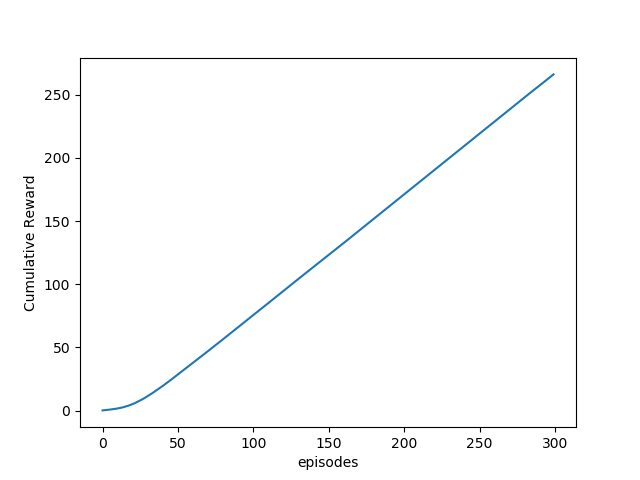
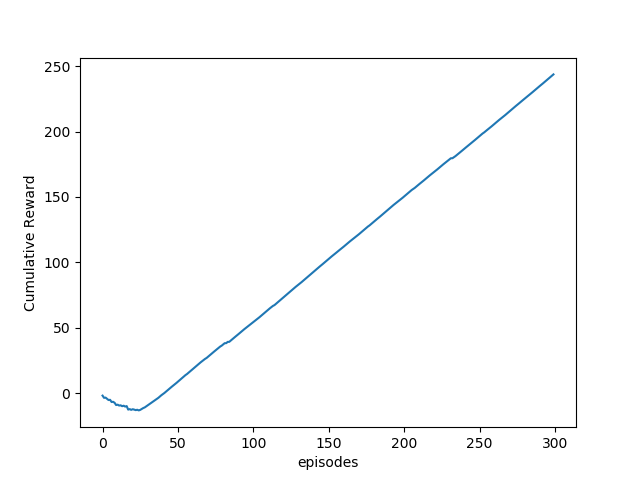
updates

diff --git a/env/maze2D.py b/env/maze2D.py
@@ -321,6 +321,191 @@ class MazeEnvironmentWindy(BaseEnvironment):
 
 
 
+
+class MazeEnvironmentLava(BaseEnvironment):
+    """Implements the environment for an RLGlue environment
+
+    Note:
+        env_init, env_start, env_step, env_cleanup, and env_message are required
+        methods.
+    """
+    def random_init(self):
+        while True:
+            s = [random.randint(0,self.maze_dim[0]-1),random.randint(0,self.maze_dim[1]-1)]
+            if not self.is_obstacle(s[0],s[1]):    
+                self.start_state = s
+                break
+        self.current_state = [None for _ in range(len(self.maze_dim))]
+        
+
+    def env_init(self,env_info):
+
+        self.maze_dim = env_info["shape"]
+        self.start_state = env_info["start"]
+        self.end_state = env_info["end"]
+        self.current_state = [None for _ in range(len(self.maze_dim))]
+        self.obstacles = env_info["obstacles"]
+        self.wind = env_info["wind"] #upward ^ +1 
+        self.lava = env_info["lava"] #reward -10  
+        self.reward_obs_term = [0.0, None, False]
+
+    def describe(self):
+        print('Maze - volume = {}'.format(self.maze_dim))
+        print('Maze - Wall   = {}'.format(self.obstacles))
+        print('Maze - Start  = {}'.format(self.start_state))
+        print('Maze - End    = {}'.format(self.end_state))
+        print('Maze - Wind   = {}'.format(self.wind))
+        print('Maze - Lava   = {}'.format(self.lava))
+
+    
+    def plot(self): 
+        Lx, Ly = self.maze_dim[0],self.maze_dim[1] 
+        print('-'*((2*Lx)+3))
+        for x in range(Lx):
+            s = '|'
+            for y in range(Ly):
+                if self.is_obstacle(x,y):
+                    s+=' x'
+                elif self.start_state==[x,y]:
+                    s+=' @'
+                elif [x,y] in self.end_state:
+                    s+=' $'
+                elif [x,y] in self.wind:
+                    s+=' ^'
+                elif [x,y] in self.lava:
+                    s+=' +'    
+                else:
+                    s+=' o'
+            print(s+' |')
+        print('-'*((2*Lx)+3))
+
+    def env_start(self):
+        """The first method called when the experiment starts, called before the
+        agent starts.
+
+        Returns:
+            The first state observation from the environment.
+        """
+        self.current_state = self.start_state
+        self.reward_obs_term[1] = self.get_observation(self.current_state)
+
+        return self.reward_obs_term[1]
+
+    # check if current state is within the gridworld and return bool
+    def out_of_bounds(self, row, col):
+        if row < 0 or row > self.maze_dim[0]-1 or col < 0 or col > self.maze_dim[1]-1:
+            return True
+        else:
+            return False
+
+    # check if there is an obstacle at (row, col)
+    def is_obstacle(self, row, col):
+        if [row, col] in self.obstacles:
+            return True
+        else:
+            return False
+
+    # check if there is an wind region at (row, col)
+    def is_windy(self, row, col):
+        if [row, col] in self.wind:
+            return True
+        else:
+            return False
+
+    def is_lava(self, row, col):
+        if [row, col] in self.lava:
+            return True
+        else:
+            return False
+
+
+    def get_observation(self, state):
+        return state[0] * self.maze_dim[1] + state[1]
+
+    def env_step(self, action):
+        """A step taken by the environment.
+
+        Args:
+            action: The action taken by the agent
+
+        Returns:
+            (float, state, Boolean): a tuple of the reward, state observation,
+                and boolean indicating if it's terminal.
+        """
+
+        reward = 0.0
+        is_terminal = False
+
+        row = self.current_state[0]
+        col = self.current_state[1]
+
+        # update current_state with the action (also check validity of action)
+        if action == 0: # up
+            if not self.is_windy(row,col):
+                if not (self.out_of_bounds(row-1, col) or self.is_obstacle(row-1, col)):
+                    self.current_state = [row-1, col]
+            else:
+                if not (self.out_of_bounds(row-2, col) or self.is_obstacle(row-2, col)):
+                    self.current_state = [row-2, col]
+
+        elif action == 1: # right
+            if not self.is_windy(row,col):
+                if not (self.out_of_bounds(row, col+1) or self.is_obstacle(row, col+1)):
+                    self.current_state = [row, col+1]
+            else:
+                if not (self.out_of_bounds(row-1, col+1) or self.is_obstacle(row-1, col+1)):
+                    self.current_state = [row-1, col+1]
+            
+        elif action == 2: # down
+            if not self.is_windy(row,col):
+                if not (self.out_of_bounds(row+1, col) or self.is_obstacle(row+1, col)):
+                    self.current_state = [row+1, col]
+            else:
+                if not (self.out_of_bounds(row, col) or self.is_obstacle(row, col)):
+                    self.current_state = [row, col]
+
+        elif action == 3: # left
+            if not self.is_windy(row,col):
+                if not (self.out_of_bounds(row, col-1) or self.is_obstacle(row, col-1)):
+                    self.current_state = [row, col-1]
+            else:
+                if not (self.out_of_bounds(row-1, col-1) or self.is_obstacle(row-1, col-1)):
+                    self.current_state = [row-1, col-1]
+
+        if self.current_state in self.lava:
+            reward = -10
+            self.current_state = self.start_state  #if fall in lava restart from start_state
+
+        if self.current_state in self.end_state: # terminate if goal is reached
+            reward = 1.0
+            is_terminal = True
+
+        self.reward_obs_term = [reward, self.get_observation(self.current_state), is_terminal]
+
+        return self.reward_obs_term
+
+    def env_cleanup(self):
+        """Cleanup done after the environment ends"""
+        current_state = None
+
+    def env_message(self, message):
+        """A message asking the environment for information
+
+        Args:
+            message (string): the message passed to the environment
+
+        Returns:
+            string: the response (or answer) to the message
+        """
+        if message == "what is the current reward?":
+            return "{}".format(self.reward_obs_term[0])
+
+        # else
+        return "I don't know how to respond to your message"
+
+
+
+
 if __name__=='__main__':
     env_info = { 
         "shape": [6,6],
@@ -344,3 +529,18 @@ if __name__=='__main__':
     env.env_init(env_info=env_info)
     env.describe()
     env.plot()
+
+    env_info = { 
+    "shape": [6,6],
+    "start": [0,5],
+    "end"  : [[5,5]],
+    "obstacles":[[1,1],[1,2],[1,3]],
+    "wind":[[2,3],[3,3],[4,3],[5,3]],
+    "lava":[[4,5],[3,5]]}
+
+    env = MazeEnvironmentLava()
+    env.env_init(env_info=env_info)
+    env.describe()
+    env.plot()
+
+    

diff --git a/TD_methods/SARSA.py b/TD_methods/SARSA.py
@@ -9,6 +9,7 @@ from RLglue.agent import BaseAgent
 from env.maze2D import MazeEnvironment
 import numpy as np
 from tqdm import tqdm
+import matplotlib.pyplot as plt
 
 class SARSAagent(BaseAgent):
     def agent_init(self, agent_info):
@@ -82,9 +83,11 @@ if __name__=='__main__':
   
     env_info = { 
         "shape": [6,6],
-        "start": [0,5],
-        "end"  : [[5,4],[5,5]],
-        "obstacles":[[1,1],[1,2],[1,3],[1,4],[1,5]]}
+        "start": [0,0],
+        "end"  : [[0,5]],
+        "wind":[[0,2],[1,2],[2,2],[3,2],[4,2],[5,2]],
+        "obstacles": [],
+        "lava":[[3,3],[3,4]]}
 
     agent_info = {
         "num_states"  : np.prod(env_info["shape"]),   
@@ -98,26 +101,62 @@ if __name__=='__main__':
         agent_class = SARSAagent
         )
 
+
+    EPISODES  = 300
+    REPLICAS  = 10
+    MAX_STEPS = 5000
+
+    tot_steps = np.zeros((REPLICAS,EPISODES))
+    cum_reward_all = np.zeros((REPLICAS,EPISODES))
+    
     rl_glue.rl_init(agent_info, env_info)
     rl_glue.environment.plot()
     rl_glue.environment.describe()
     rl_glue.agent.describe()
-
-    EPISODES = 1000
-    MAX_STEPS = 1000
-    tot_steps = []
-    for n in tqdm(range(EPISODES)): 
-        n_step = 0
-        rl_glue.environment.env_start()
-        rl_glue.rl_start()
-        is_terminal = False               
-        converged = False
-        update = False
-        while not is_terminal:
-            n_step +=1
-            reward, _, action, is_terminal = rl_glue.rl_step()
-            if n_step > MAX_STEPS:
-                update=False
-                break
-        tot_steps.append(n_step)
+    
+    for r in tqdm(range(REPLICAS)):
+        rl_glue = RLGlue(
+            env_class = MazeEnvironment, 
+            agent_class = SARSAagent
+            )
+        rl_glue.rl_init(agent_info, env_info)
+        cum_reward = 0
+        for n in range(EPISODES):
+            n_step = 0
+            rl_glue.rl_start()
+            is_terminal = False               
+            converged = False
+            update = False
+            while not is_terminal:
+                n_step +=1
+                reward, _, action, is_terminal = rl_glue.rl_step()
+                cum_reward += reward
+                cum_reward_all[r][n] = cum_reward
+                if n_step > MAX_STEPS:
+                    update=False
+                    break
+                else: 
+                    update=True
+                
+            if update:
+                tot_steps[r,n] = n_step
+            
+    #from last experiment :
     rl_glue.plot_opt_policy()
+    path, ll = rl_glue.get_shortest_path()
+    rl_glue.print_shortest_path(path)
+
+    fig = plt.figure()
+    plt.plot(np.mean(tot_steps,axis=0))
+    plt.legend(['SARSA'])
+    plt.xlabel('episodes')
+    plt.ylabel('shortest path lenght')
+    plt.axhline(y=7, linestyle='--', color='grey', alpha=0.4)
+    plt.savefig('../fig/SARSA.png')
+
+
+    fig = plt.figure()
+    plt.plot(np.mean(cum_reward_all, axis=0), label='SARSA')
+    plt.xlabel('episodes')
+    plt.ylabel('Cumulative Reward')
+    plt.savefig('../fig/SARSA-cum-rew.png')

diff --git a/TD_methods/Q-learning.py b/TD_methods/Q-learning.py
@@ -6,7 +6,7 @@ sys.path.append(BASE_PATH)
 
 from RLglue.rl_glue import RLGlue
 from RLglue.agent import BaseAgent
-from env.maze2D import MazeEnvironmentWindy as MazeEnvironment
+from env.maze2D import MazeEnvironmentLava as MazeEnvironment
 import numpy as np
 from tqdm import tqdm
 import matplotlib.pyplot as plt
@@ -86,7 +86,8 @@ if __name__=='__main__':
         "start": [0,0],
         "end"  : [[0,5]],
         "wind":[[0,2],[1,2],[2,2],[3,2],[4,2],[5,2]],
-        "obstacles": []}
+        "obstacles": [],
+        "lava":[[3,3],[3,4]]}
 
     agent_info = {
         "num_states"  : np.prod(env_info["shape"]),   
@@ -102,7 +103,7 @@ if __name__=='__main__':
 
 
     EPISODES  = 300
-    REPLICAS  = 100
+    REPLICAS  = 10
     MAX_STEPS = 5000
 
     tot_steps = np.zeros((REPLICAS,EPISODES))

diff --git a/TD_methods/DYNA-Q+.py b/TD_methods/DYNA-Q+.py
@@ -1,0 +1,1 @@
+#TODO

diff --git a/TD_methods/DYNA-Q.py b/TD_methods/DYNA-Q.py
@@ -1,0 +1,1 @@
+#TODO
